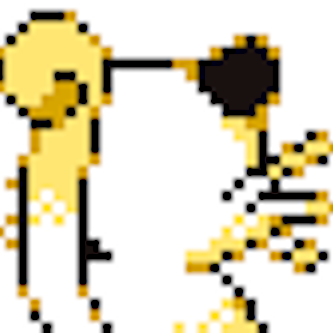
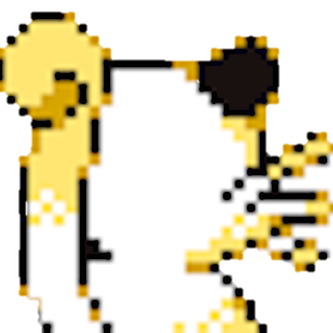
prettier sprites and more elegant sound effect timing

diff --git a/bin/prof_oak.rb b/bin/prof_oak.rb
@@ -17,6 +17,7 @@ class ProfOak < Gosu::Window
     self.caption = "Prof. Oak"
     @start_image = Gosu::Image.new("../assets/images/intro.png")
     @battle_start_background = Gosu::Image.new("../assets/images/battle_start.png")
+    @battle_menu_background = Gosu::Image.new("../assets/images/battle_menu_background.png")
     @battle_background = Gosu::Image.new("../assets/images/battle_background.png")
     @intro_music = Gosu::Song.new("../assets/sounds/intro_theme.mp3")
     @intro_music.play(true)
@@ -32,19 +33,12 @@ class ProfOak < Gosu::Window
     @scene = :pcs_on_screen
     @battle_music = Gosu::Song.new("../assets/sounds/battle_theme.mp3")
     @battle_music.play(true)
-    @test_pokemon = Pokemon.new(self, 100, 460, "Persian")
-    @second_test_pokemon = Pokemon.new(self, 740, 100, "Persian")
+    @test_pokemon = Pokemon.new(self, -500, 460, "Persian")
+    @second_test_pokemon = Pokemon.new(self, 1500, 100, "Persian")
     @player.party << @test_pokemon
     @player.current_pokemon = @test_pokemon
     @enemy_player.party << @second_test_pokemon
     @enemy_player.current_pokemon = @second_test_pokemon
-  end
-
-  def initialize_both_pokemon_enter_battle
-    @characters.each do |character|
-      character.current_pokemon.play_battle_cry
-    end
-    @scene = :battle_menu
   end
 
   def draw
@@ -106,10 +100,10 @@ class ProfOak < Gosu::Window
   end
 
   def draw_battle_menu
-    @battle_background.draw(0,0,0)
+    @battle_menu_background.draw(0,0,0)
     @font.draw("#{@player.current_pokemon.name.upcase}",650,550,1,1,1,Gosu::Color::BLACK)
     @font.draw(":L #{@player.current_pokemon.level}",720,600,1,1,1,Gosu::Color::BLACK)
-    @font.draw("#{@enemy_player.current_pokemon.hp} / #{@player.current_pokemon.max_hp}",650,680,1,1,1,Gosu::Color::BLACK)
+    @font.draw("#{@enemy_player.current_pokemon.hp}/ #{@player.current_pokemon.max_hp}",650,680,1,1,1,Gosu::Color::BLACK)
     @font.draw("#{@enemy_player.current_pokemon.name.upcase}",150,50,1,1,1,Gosu::Color::BLACK)
     @font.draw(":L #{@enemy_player.current_pokemon.level}",220,100,1,1,1,Gosu::Color::BLACK)
     @hp_font.draw("HP: ",120,150,1,1,1,Gosu::Color::BLACK)
@@ -128,7 +122,27 @@ class ProfOak < Gosu::Window
       character.slide_off_screen
     end
     if @player.off_screen? && @enemy_player.off_screen?
-      initialize_both_pokemon_enter_battle
+      @scene = :both_pokemon_enter_battle
+      @time_stamp = Gosu.milliseconds
+    end
+  end
+
+  def update_both_pokemon_enter_battle
+    if Gosu.milliseconds >= @time_stamp + 50 && Gosu.milliseconds <= @time_stamp + 65
+      @enemy_player.current_pokemon.play_battle_cry
+    end
+    if Gosu.milliseconds >= @time_stamp + 900 && Gosu.milliseconds <= @time_stamp + 915
+      @player.current_pokemon.play_battle_cry
+    end
+    @characters.each do |character|
+      if character.class == Player && @enemy_player.current_pokemon.onscreen_enemy?
+        @player.current_pokemon.slide_on_screen_player
+      elsif character.class == EnemyPlayer
+        @enemy_player.current_pokemon.slide_on_screen_enemy
+      end
+      if @enemy_player.current_pokemon.onscreen_enemy? && @player.current_pokemon.onscreen_player?
+        @scene = :battle_menu
+      end
     end
   end
 

diff --git a/lib/prof_oak/pokemon.rb b/lib/prof_oak/pokemon.rb
@@ -8,6 +8,7 @@ class Pokemon
   attr_reader :name
   attr_reader :level
   attr_reader :max_hp
+  attr_reader :battle_cry
 
   def initialize(window, x, y, name="Pokémon", level=35)
     @level = level
@@ -16,6 +17,8 @@ class Pokemon
     @hp = @max_hp = MAX_HP
     @x = x
     @y = y
+    @velocity_x = 0
+    @velocity_y = 0
     @attack = 10
     @defense = 10
     @special_attack = 10
@@ -52,13 +55,31 @@ class Pokemon
   def faint
   end
 
-  def slide_on_screen
+  def slide_on_screen_enemy
+    @velocity_x += Gosu.offset_x(45, 1)
+    @x -= @velocity_x if @x >= 850
+  end
+
+  def slide_off_screen_enemy
+    @velocity_x += Gosu.offset_x(45, 1)
+    @x -= @velocity_x if @x >= -500
+  end
+
+    def slide_on_screen_player
     @velocity_x += Gosu.offset_x(45, 1)
     @x += @velocity_x if @x <= 100
   end
 
-  def slide_off_screen
+  def slide_off_screen_player
     @velocity_x += Gosu.offset_x(45, 1)
     @x -= @velocity_x if @x >= -500
+  end
+
+  def onscreen_enemy?
+    @x <= 850
+  end
+
+  def onscreen_player?
+    @x >= 100
   end
 end
